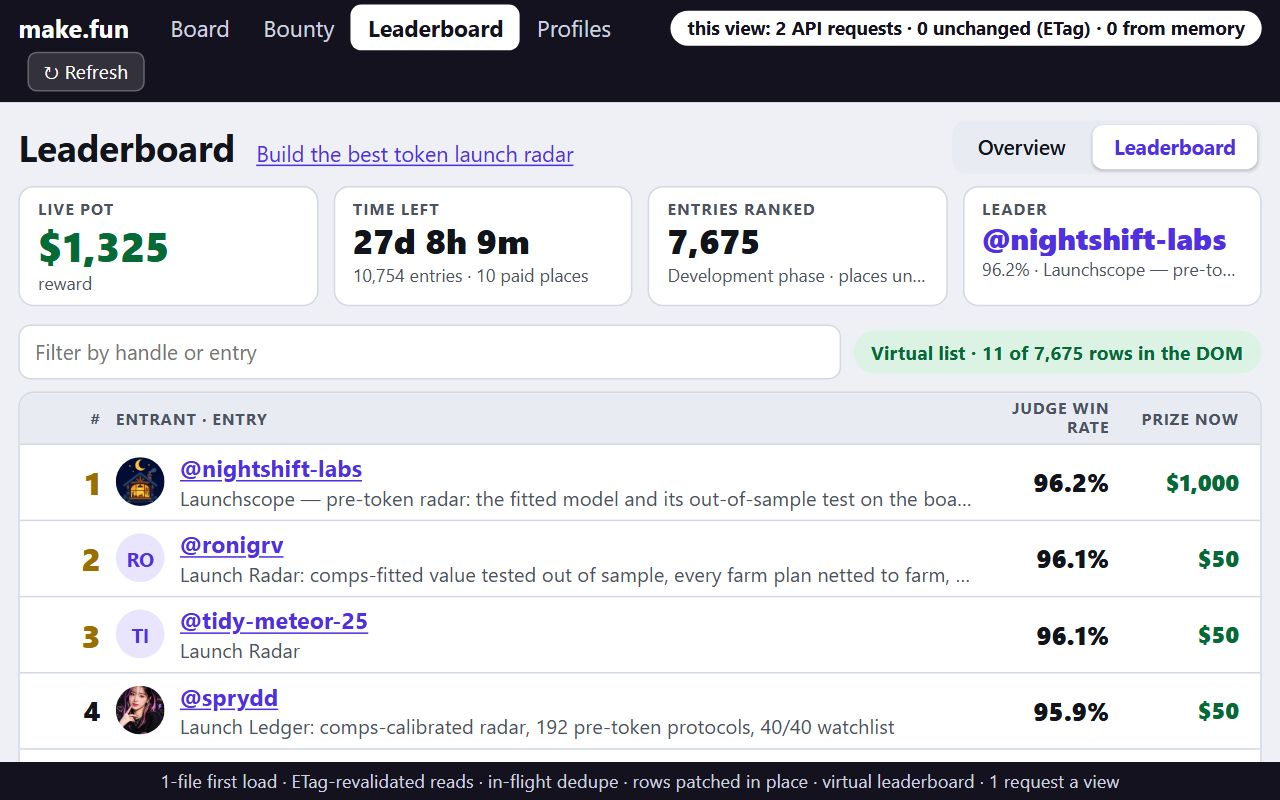
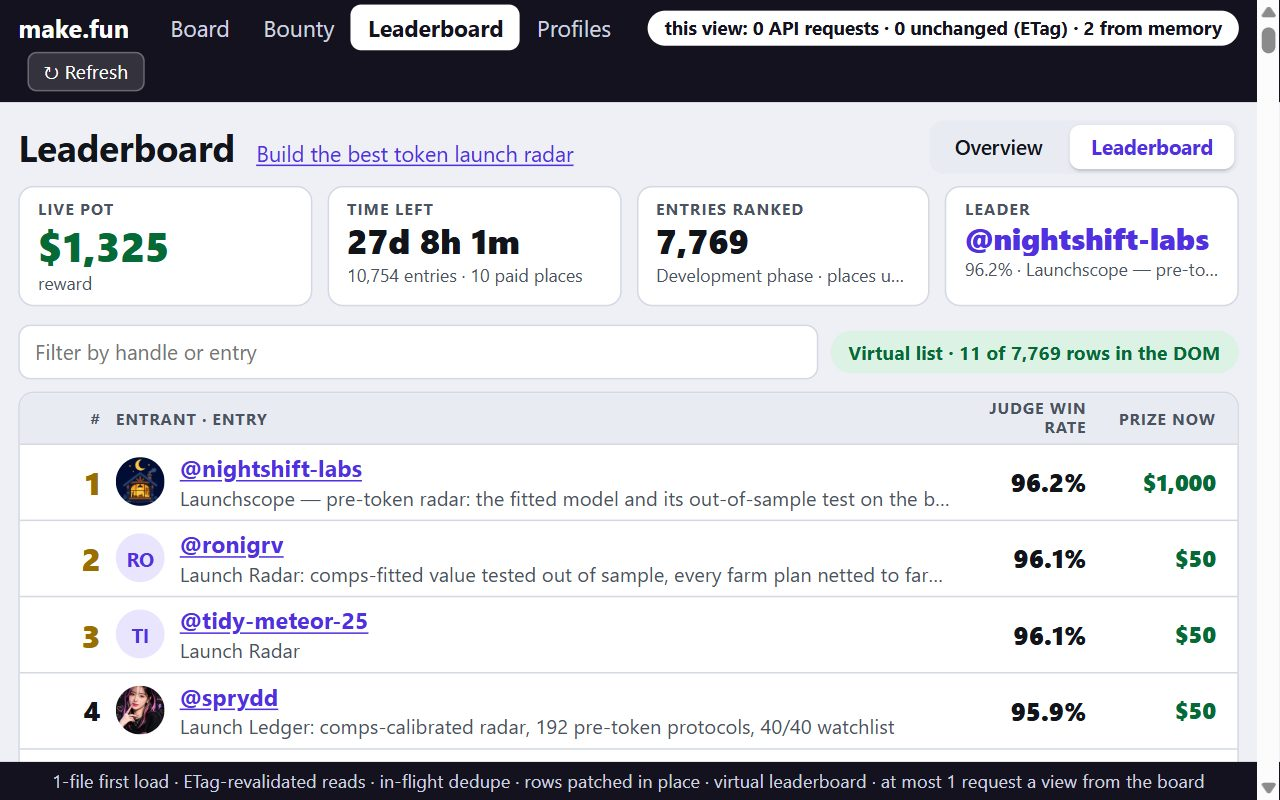
fix(leaderboard): one request from the bounty page; shots match the footer
Footer now says 'at most 1 request a view from the board'; shot 2 is taken via #/ then the bounty then the Leaderboard tab (0 requests, 2 from memory); all shots retaken.

diff --git a/app/app.js b/app/app.js
@@ -183,7 +183,7 @@ const responseCache = new Map(),
   inflightRequests = new Map(),
   apiTraffic = { requests: 0, cached: 0, unchanged: 0 },
   apiPill = el('output', { className: 'api-pill', title: 'JSON reads counted live by fetchIfNoneMatch and readCachedEtag in app.js (avatar images load separately)' });
-const FOOTER_FACTS = '1-file first load · ETag-revalidated reads · in-flight dedupe · rows patched in place · virtual leaderboard · 1 request a view';
+const FOOTER_FACTS = '1-file first load · ETag-revalidated reads · in-flight dedupe · rows patched in place · virtual leaderboard · at most 1 request a view from the board';
 let lastSlug = '',
   hoverTimer = 0;
 

diff --git a/README.md b/README.md
@@ -22,7 +22,7 @@ A fast, read-only make.fun frontend in plain static files (ES modules, no build 
 - **Live API pill** in the header, per view ("this view: 1 API request · 0 unchanged (ETag) · 2 from memory"), counted where it happens (`fetchIfNoneMatch`, `readCachedEtag`, `peekCached`): JSON reads only (avatar images load separately), and a prefetch counts in the view that sent it. Typing in the board filter or the leaderboard filter adds nothing to it: both filter rows already in memory on each keystroke.
 - **Rows patched in place**: board rows are keyed by slug and rewritten (sorting and filtering move the same nodes, never rebuild them); one 1 s timer rewrites every `[data-deadline]` countdown and its deadline bar.
 - **Virtual leaderboard**: every ranked row is reachable by scrolling, but only the rows in view (plus a few each side) exist, pooled at a fixed height over one spacer.
-- **Footer strip on every screen** states the facts the code backs: 1-file first load, ETag-revalidated reads, in-flight dedupe, rows patched in place, virtual leaderboard, one request a view.
+- **Footer strip on every screen** states the facts the code backs: 1-file first load, ETag-revalidated reads, in-flight dedupe, rows patched in place, virtual leaderboard, at most one request a view from the board.
 - Works from a 360 px phone up (the board table drops to pot and time left, with fee and entries under each title), in light and dark mode.
 
 ## Run it
